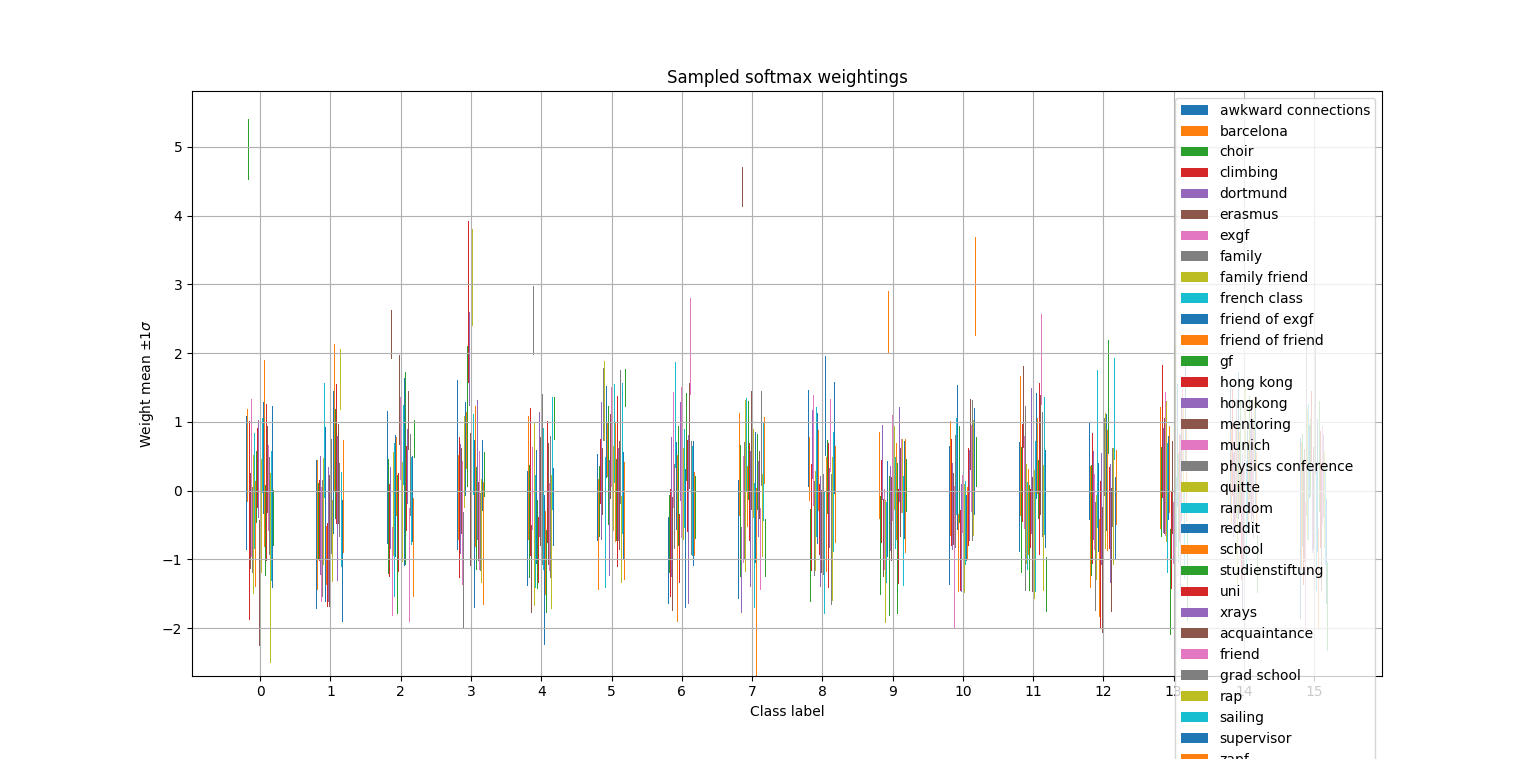
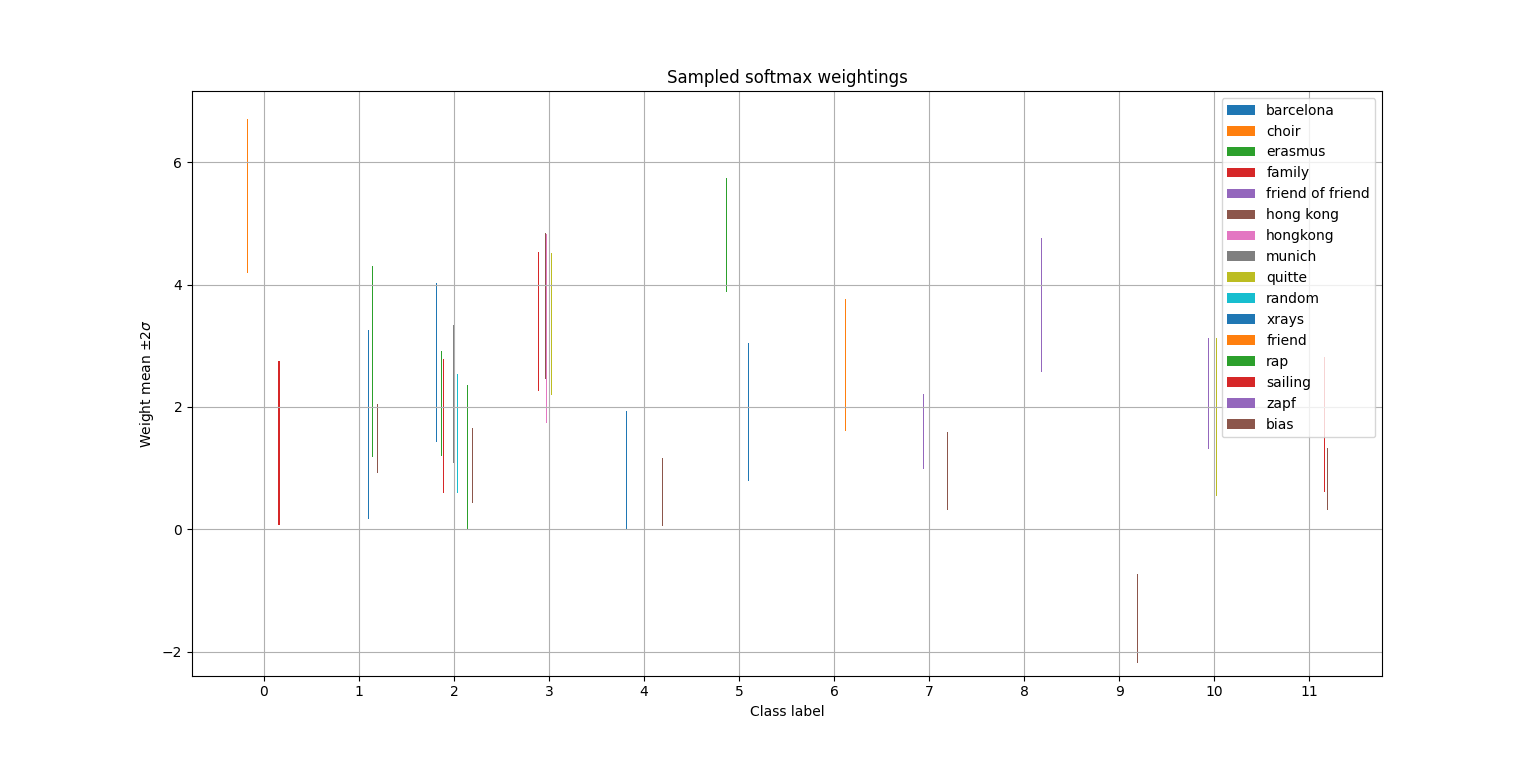
Maier network analysis

diff --git a/inference/softmax.py b/inference/softmax.py
@@ -270,6 +270,34 @@ class SoftmaxNeuralNet:
         self.param_means = param_means
         self.param_std_devs = param_std_devs
 
+    
+    def feature_overlaps_zero(self, feature_index, std_dev_multiplier):
+        means = self.param_means[:, feature_index]
+        std_devs = self.param_std_devs[:, feature_index]
+
+        lower = means - (std_dev_multiplier * std_devs)
+        upper = means + (std_dev_multiplier * std_devs)
+
+        for i in range(0, len(lower)):
+            if lower[i] < 0 and upper[i] > 0:
+                pass
+            else:
+                return False
+
+        return True
+
+    
+    def feature_overlaps_zero_for_class(self, feature_index, class_index, std_dev_multiplier):
+        mean = self.param_means[class_index, feature_index]
+        std_dev = self.param_std_devs[class_index, feature_index]
+
+        lower = mean - (std_dev_multiplier * std_dev)
+        upper = mean + (std_dev_multiplier * std_dev)
+        if lower[i] < 0 and upper[i] > 0:
+            return True
+        else:
+            return False
+
 
     def plot_cost(self):
         plt.figure()
@@ -305,31 +333,42 @@ class SoftmaxNeuralNet:
 
 
     def plot_sampled_weights(self, feature_names, std_dev_multiplier=1):
-        W_history = self.weight_history["W1"]
-        b_history = self.bias_history["b1"]
 
         D = self.layers_size[0]
         B = self.layers_size[1]
-        n = len(W_history)       
 
         assert len(feature_names) == D
 
         feature_names.append("bias")
 
+        self.compute_mean_variances()
+
         width = 0.4 / (D + 1)
         midpoint = D / 2.0
 
-        self.compute_mean_variances()
+        discarded_features = []
+        for d in range(0, D + 1):
+            if self.feature_overlaps_zero(d, std_dev_multiplier):
+                discarded_features.append(d)
+                print("Discarding feature {}: {}".format(d, feature_names[d]))
+
 
         for d in range(0, D + 1):
-            mean = self.param_means[:, d]
-            std_dev = self.param_std_devs[:, d]
+            if d in discarded_features:
+                pass
+            else:
+                mean = self.param_means[:, d]
+                std_dev = self.param_std_devs[:, d]
 
-            height = 2 * std_dev * std_dev_multiplier
-            bottom = mean - std_dev
+                height = 2 * std_dev * std_dev_multiplier
+                bottom = mean - std_dev
 
-            x = np.arange(0, B, 1) + (width * (d - midpoint))
-            plt.bar(x=x, height=height, bottom=bottom, width=width, label=feature_names[d])
+                for b in range(0, B):
+                    if bottom[b] < 0 and bottom[b] + height[b] > 0:
+                        height[b] = 0 #unclutter classifier
+
+                x = np.arange(0, B, 1) + (width * (d - midpoint))
+                plt.bar(x=x, height=height, bottom=bottom, width=width, label=feature_names[d])
 
         block_centres = np.arange(0, B, 1)
         block_names = [str(num) for num in range(0, B)]

diff --git a/maier.py b/maier.py
@@ -20,7 +20,7 @@ def run():
     names = graph.get_feature_names()
 
     classifier.sgld_sample_thinning()
-    classifier.plot_sampled_weights(names)
+    classifier.plot_sampled_weights(names, std_dev_multiplier=2)
     classifier.plot_sample_histogram()
     classifier.plot_sample_history()
 
